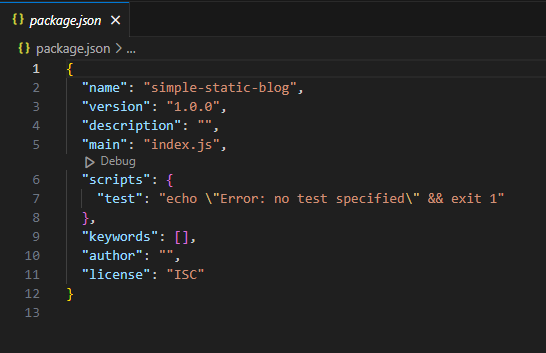
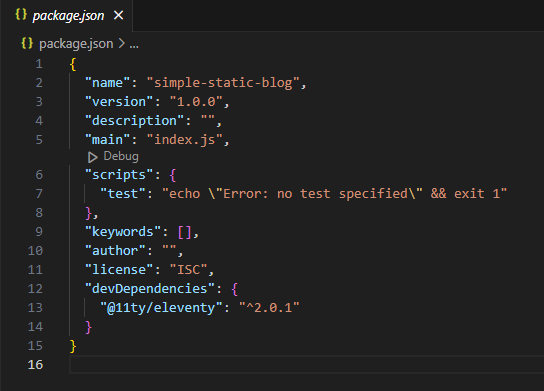
Update Blog “2023-07-17-simple-static-blog-with-11ty-decapcms-and-netlify”

diff --git a/src/blog/2023-07-17-simple-static-blog-with-11ty-decapcms-and-netlify.md b/src/blog/2023-07-17-simple-static-blog-with-11ty-decapcms-and-netlify.md
@@ -22,13 +22,13 @@ Start up your favorite code editor (in this Tutorial, I'll be using [VS Code](ht
 
 ![image of the Terminal tap](/assets/blog/simple_static_blog_img2.png)
 
-Now we want to tell Node.js more about our project, with the package.json. To create this file type the following command in the Terminal.
+Now we want to tell Node.js more about our project, with the package.json. To create this file, type the following command in the Terminal.
 
 ```shell
 npm init -y
 ```
 
-We also need 11ty to be installed in our project. which is done with the command:
+We also need 11ty to be installed in our project. Which is done with the command:
 
 ```shell
 npm install @11ty/eleventy --save-dev
@@ -38,4 +38,46 @@ Next up, open the package.json by clicking on it in the file explorer build into
 
 ![image of the package.js file](/assets/blog/simple_static_blog_img3.png)
 
- The package.json contains the basic information about your project, like the name, the version and also the commands the project runtime suports, listed under scripts. as you see there is only one command called test. we want to get rid of this command and create our own
+ The package.json contains the basic information about your project, like the name, the version and also the commands the project runtime supports, listed under scripts. As you see, there is only one command called test. We want to get rid of this command and create our own. Replace the test command with the following two commands.
+
+```json
+"start": "eleventy --serve",
+"build": "eleventy"
+```
+
+Start will be used during development, and build will be to build the page for the deployment.
+
+After that, we need to tell 11ty more about our project by creating a new file called "**.eleventy.js**" and pasting the following code block into it.
+
+```javascript
+ module.exports = function (eleventyConfig) {
+ 
+ // Return your Object options:
+  return {
+    dir: {
+      input: "src",
+      output: "public"
+    }
+  }
+};
+```
+
+The code block tells 11ty where the files you create will be (src directory) and where the build files will be (public directory).
+
+## Src directory and base.html file
+
+now that 11ty knows where the files you create will be. Let's create them. Starting with the most important file the "index.html" this file will be the landing page of your Blog. At first, create a folder in the directory of your project called "**src**" in this directory will be all your code. In this folder, create the "**index.html**" and add the standard html5 template code in it.
+
+```html
+<!DOCTYPE html>
+<html lang="en">
+<head>
+    <meta charset="UTF-8">
+    <meta name="viewport" content="width=device-width, initial-scale=1.0">
+    <title>Document</title>
+</head>
+<body>
+    
+</body>
+</html>
+```
